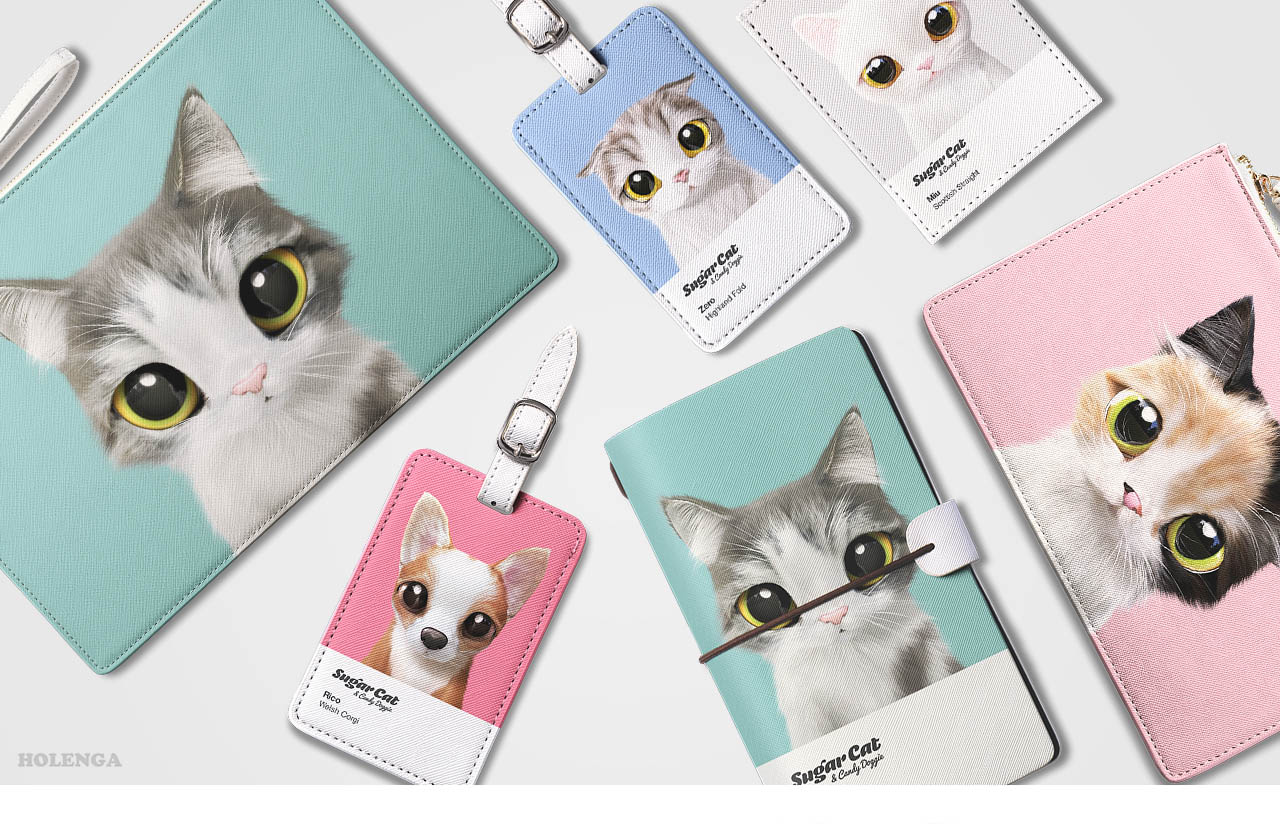
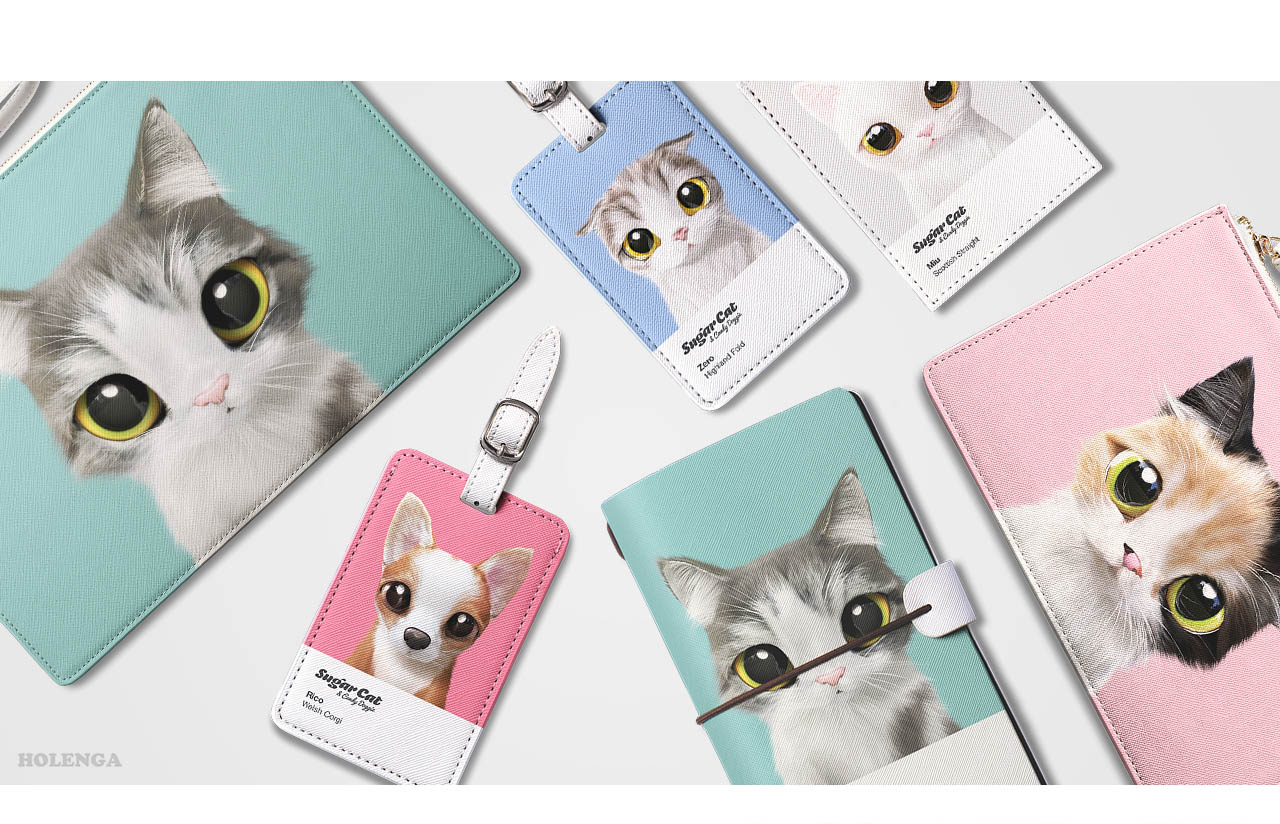
아트샵 업데이트 : 이미지 마진

diff --git a/index.html b/index.html
@@ -128,7 +128,7 @@
           <span class="lang ja hidden">Meet Sugar Cat &amp; Candy Doggie's Art &amp; Design Goods. Some of profits will be delivered to the owner of the pet. In case of stray cats and wild animals, some of profits will be donated to: NGO KARA Animal Rights Association.</span>
           <span class="lang ko hidden">슈가캣 &amp; 캔디도기 작품들로 다양한 아트상품과 디자인 상품을 판매합니다. 상품 수익금의 일부는 해당 모델인 반려동물의 주인에게 전해집니다. 길고양이나 유기견 그리고 야생동물이 모델인 경우, 동물보호시민단체 카라(KARA)에 기부됩니다.</span>
         </p>
-        <br>
+
         <!-- 
         <div class="main_img_wrapper">
           <img src="img/shop_sample.jpg" class="img" alt="Sugarcat shop">
